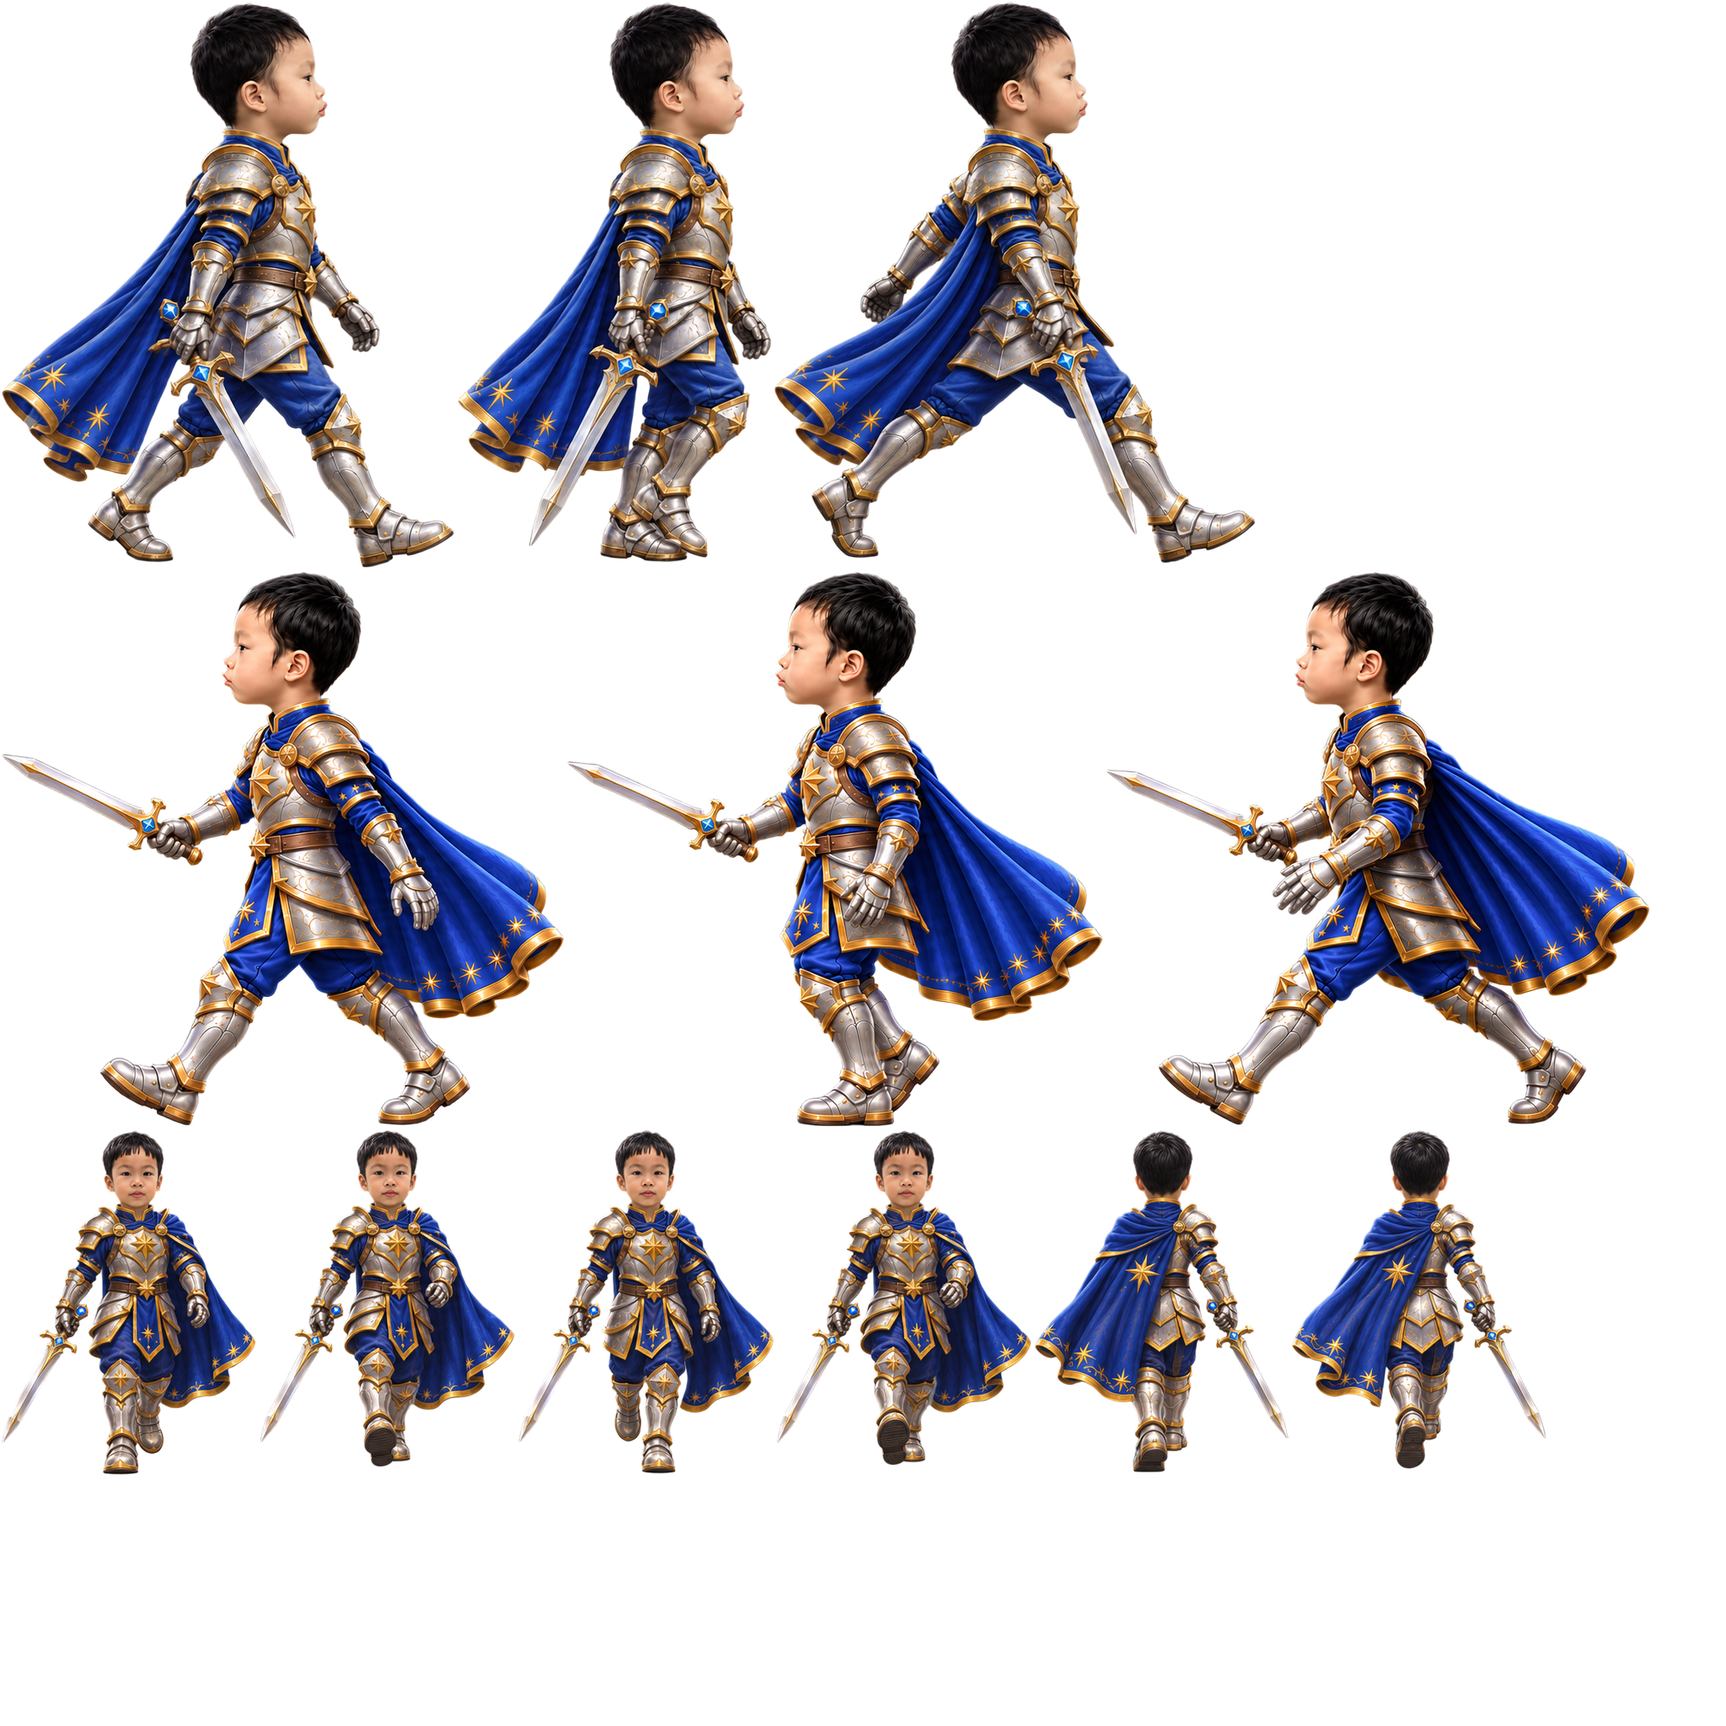
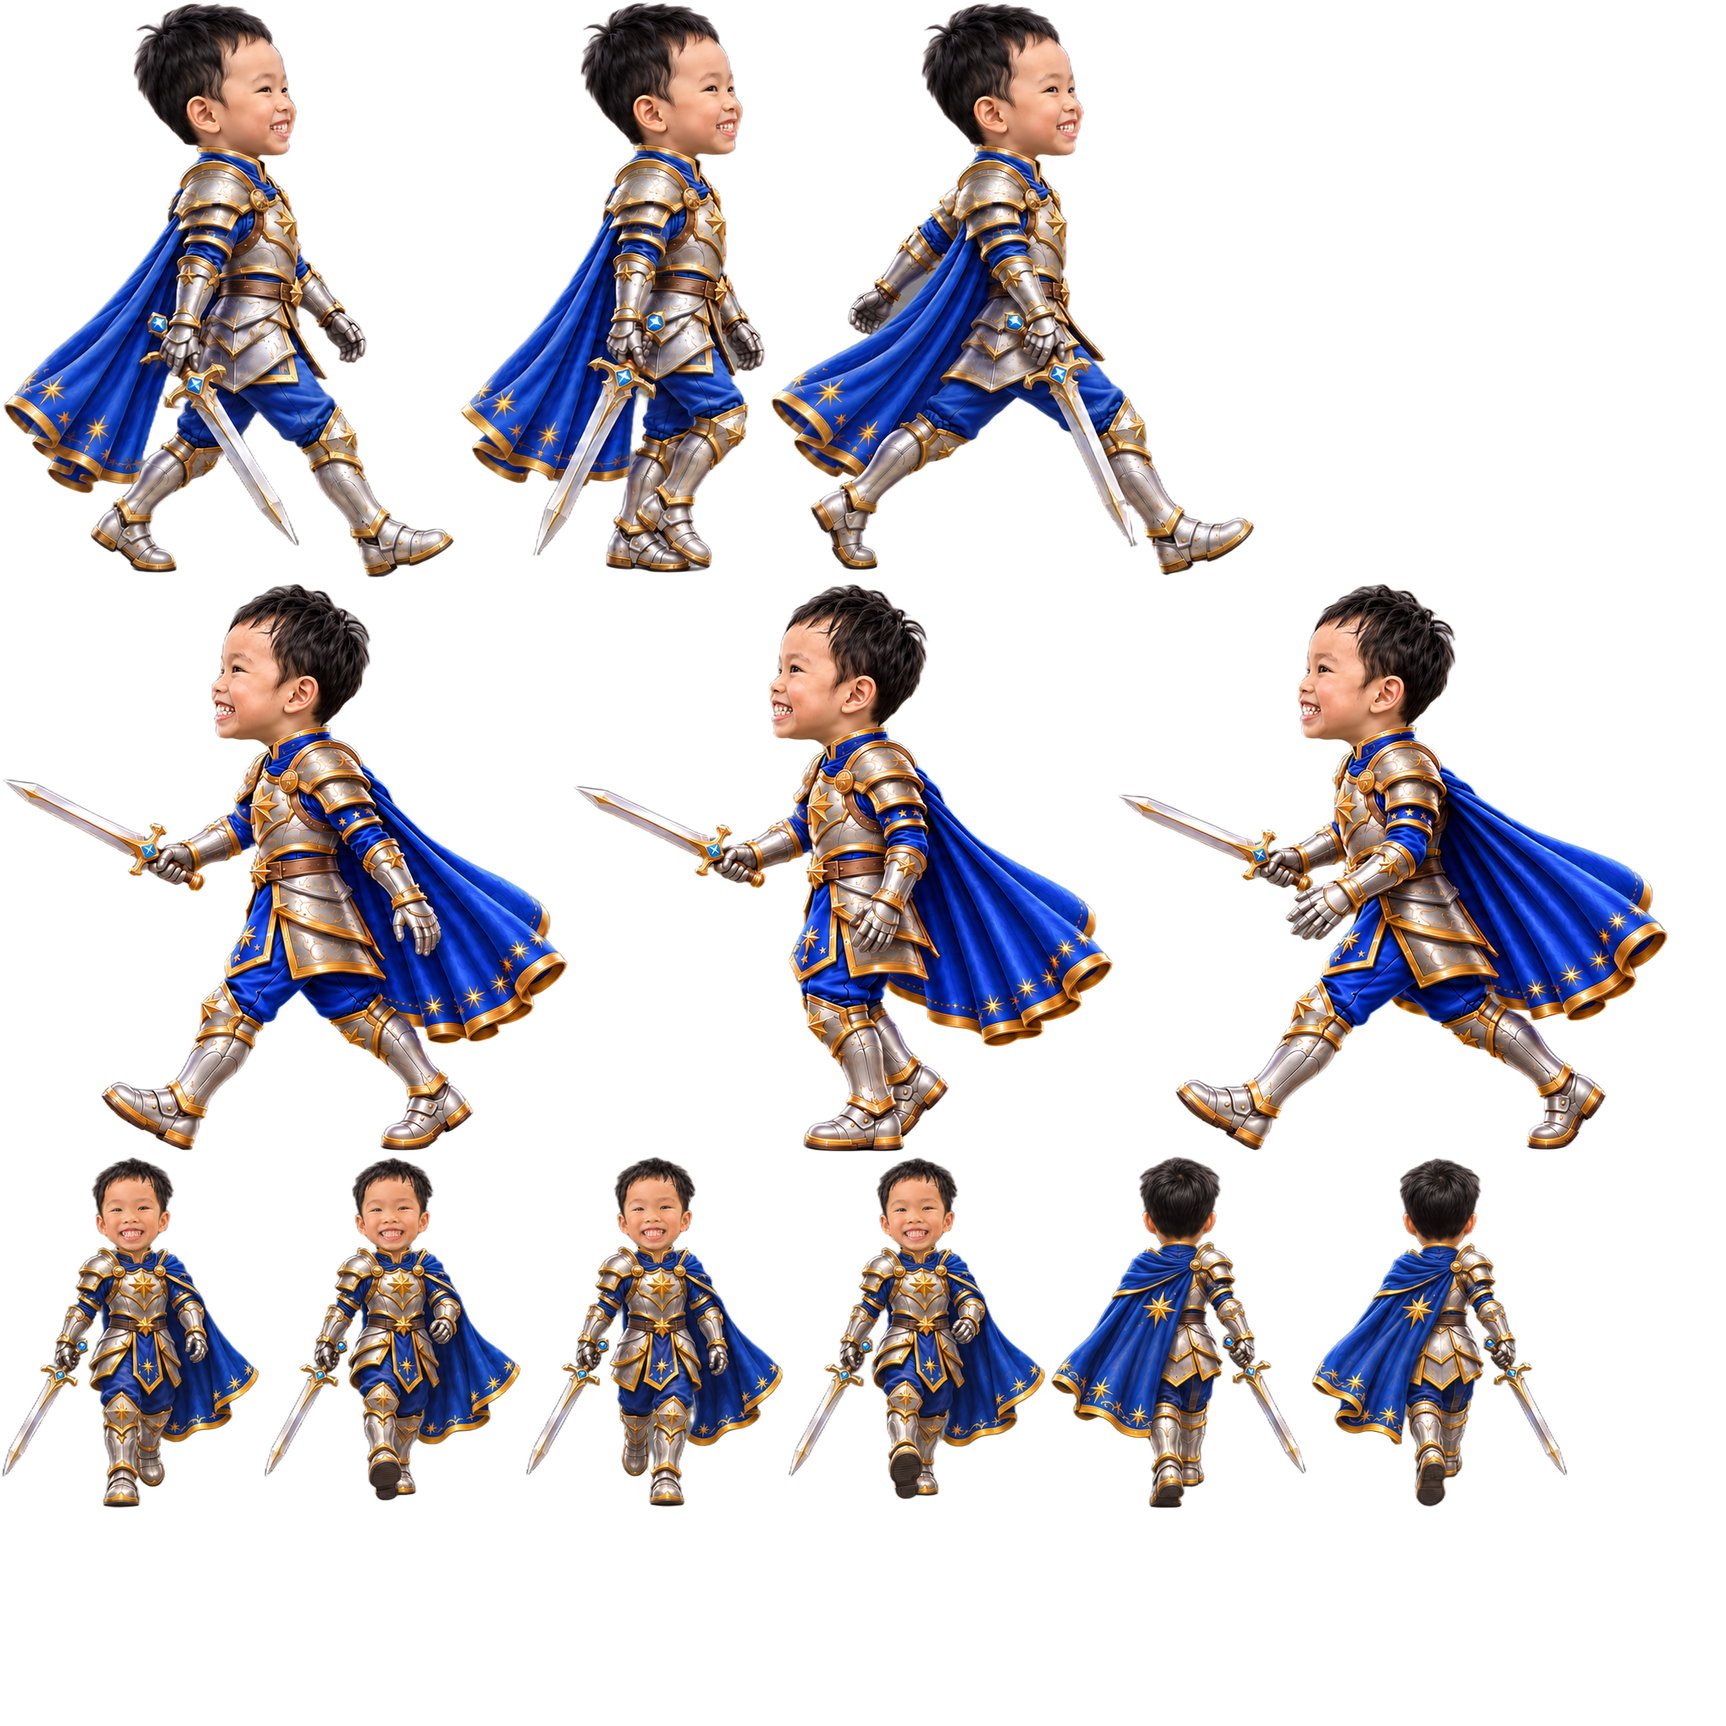
Đồng Cỏ 261103.1534: Gôm cười mở mắt, tám bộ đồ và hút máu cận chiến

Changed region(s): [[0.0, 0.0, 0.9688, 0.875]]

diff --git a/index.html b/index.html
@@ -243,7 +243,7 @@
 
 <div id="rotate">Xoay ngang iPad để chơi nhé</div>
 
-<script src="wardrobe.js?v=261103.1137"></script>
+<script src="wardrobe.js?v=261103.1534"></script>
 <script>
 (() => {
   "use strict";
@@ -277,7 +277,7 @@
   let META = null, ready = false;
   function loadImg(src) { return new Promise((res, rej) => { const i = new Image(); i.onload = () => res(i); i.onerror = rej; i.src = src; }); }
   // ---------------------------------------------------------------- version: the site build stamps BUILD_VER and writes version.json beside the page
-  const BUILD_VER = "261103.1137", isBuilt = !BUILD_VER.startsWith("__");
+  const BUILD_VER = "261103.1534", isBuilt = !BUILD_VER.startsWith("__");
   async function latestVer() {
     try { return (await (await fetch("version.json?x=" + Date.now(), { cache: "no-store" })).json()).v; } catch (e) { return null; }
   }
@@ -349,7 +349,7 @@
   async function gomAtlas(outfit='base') {
     if(!GOM_OUTFITS.includes(outfit))throw Error('Trang phục Gôm không hợp lệ');
     const url='gom-assets/'+outfit+'/',res=await fetch(url+'atlas.json'),meta=await res.json();
-    const required=['stand','faint','cheer','ult',...['wr','wl','cr','cl'].flatMap(p=>[0,1,2].map(i=>p+i)),...['wd','wu','cd','cu'].flatMap(p=>[0,1,2,3].map(i=>p+i))];
+    const required=['stand','faint','cheer','ult',...['wr','wl','cr','cl','wdr','wdl'].flatMap(p=>[0,1,2].map(i=>p+i)),...['wd','wu','cd','cu'].flatMap(p=>[0,1,2,3].map(i=>p+i))];
     required.push(...Array.from({length:9},(_,i)=>['atk'+i+'r','atk'+i+'l']).flat());
     if(outfit==='base')required.push('sword_fly','slash0','slash1','slash2','ult_swords','ult_land');
     if(meta.version!==1||!Array.isArray(meta.sheets)||!meta.sheets.length||!meta.sheets.every(n=>/^[a-zA-Z0-9_-]+\.webp$/.test(n))||!meta.frames||required.some(p=>!meta.frames[p]))throw Error('Gôm chưa đủ hình');
@@ -799,7 +799,11 @@
     })();WARD.loading.set(id,task);try{return await task;}finally{WARD.loading.delete(id);}
   }
   function wardRefresh(){const key=[WARD.epoch,G.stars,outfit[hero],WARD.ready,WARD.partnerReady,NET.role,WARD.pending?.id,[...WARD.owned[hero]].join(',')].join('|');if(key===WARD.uiKey)return;WARD.uiKey=key;WARD.ui?.refresh();WARD.ui?.setReadyState({self:WARD.ready,partner:WARD.partnerReady,coop:!!NET.role});}
-  function wardInitUI(){if(WARD.ui||!window.createMeadowWardrobe)return;WARD.ui=window.createMeadowWardrobe({hero:()=>hero,heroName:()=>HD().name,catalog:()=>WARD.catalog,coins:()=>G.stars,owned:wardOwned,equipped:()=>outfit[hero],load:wardLoad,buy:wardBuy,wear:wardWear,ready:wardReady,back:toTitle,label:()=>LEVELS[G.level].name,background:'wardrobe-assets/background.webp'});}
+  async function wardPreview(id) {
+    const stand = await wardLoad(id);
+    return hero === "b" ? (await gomSelection(id ? id.slice(2) : "base").promise) || stand : stand;
+  }
+  function wardInitUI(){if(WARD.ui||!window.createMeadowWardrobe)return;WARD.ui=window.createMeadowWardrobe({hero:()=>hero,heroName:()=>HD().name,catalog:()=>WARD.catalog,coins:()=>G.stars,owned:wardOwned,equipped:()=>outfit[hero],load:wardPreview,buy:wardBuy,wear:wardWear,ready:wardReady,back:toTitle,label:()=>LEVELS[G.level].name,background:'wardrobe-assets/background.webp'});}
   function wardOpen(fromNet=false,epoch=null){
     if(epoch!==null&&WARD.open&&WARD.epoch===epoch)return;
     WARD.epoch=epoch===null?WARD.epoch+1:epoch;WARD.open=true;WARD.ready=false;WARD.partnerReady=false;G.mode='shop';P.vx=P.vy=0;P.moving=false;
@@ -1128,7 +1132,7 @@
       addDeco(d);
     }
     // reset the play state
-    P.gomAttack=null;P.gomVisual=null;P.gomIndex=0;G.nextId = 1; G.mons = []; G.shots = []; G.pshots = []; G.foes = []; G.parts = []; G.drops = []; G.gems = []; G.rings = []; G.quakes = [];
+    resetGomCombat();gomReceived.clear();P.gomAttack=null;P.gomVisual=null;P.gomIndex=0;G.nextId = 1; G.mons = []; G.shots = []; G.pshots = []; G.foes = []; G.parts = []; G.drops = []; G.gems = []; G.rings = []; G.quakes = [];
     G.boss = null; G.ult = null; G.quiz = null; G.bcut = null; G.bcutSeen = null; $("quiz").hidden = true; G.arenaLock = false; G.lt = 0; G.lvKills = 0; G.spawnAcc = 0; G.surgeT = 35; G.gateMsg = false; G.tierMsg = false; TIER_FR.clear();
     chunkCache.clear(); miniBase = null;
     $("lvlName").textContent = L.name;
@@ -1373,7 +1377,7 @@
   function heroDown(why) {
     // The girls only rest briefly. Fainting and rescue belong to NPCs.
     if (P.tiredT > 0) return;
-    P.gomAttack=null;P.gomVisual=null; P.dead = false; P.tiredT = 1.4; P.inv = Math.max(P.inv, 1.4); P.hurtT = 0;
+    resetGomCombat();P.gomAttack=null;P.gomVisual=null; P.dead = false; P.tiredT = 1.4; P.inv = Math.max(P.inv, 1.4); P.hurtT = 0;
     P.vx = P.vy = 0; P.moving = false; G.hearts = 0; renderHearts();
     showBanner(HD().name + " hơi mệt rồi!", "Nghỉ một chút là khỏe lại nhé");
   }
@@ -1382,6 +1386,7 @@
   const rescuing = () => !!(Q && NET.role && !Q.dead && d2(Q.x, Q.y, P.x, P.y) < RESCUE_R * RESCUE_R);
   // get back up on the spot with full hearts, and shoo the monsters away
   function reviveHero() {
+    resetGomCombat();P.gomAttack=null;P.gomVisual=null;
     for (const e of PETE) e.faintT = 0;
     P.dead = false; P.tiredT = 0; P.hurtT = 0; P.inv = 2.5; G.hearts = maxHearts(); renderHearts(); SFX.heal();
     burst(P.x, P.y - 110, 30, ["#fff4c2", "#ffd34d", ...HD().cols], 380, 0.8);
@@ -1488,25 +1493,56 @@
     }
     play("zap");
   }
+  let gomSequence = 0;
+  const gomWaiting = new Set(), gomReceived = new Map();
+  function resetGomCombat() {
+    P.gomThrowCd=0; P.gomHealTimes=[]; gomWaiting.clear();
+  }
+  function gomHeal() {
+    if(hero!=="b" || P.dead || P.tiredT>0 || G.hearts<=0) return;
+    const now=G.t || 0;
+    P.gomHealTimes=(P.gomHealTimes||[]).filter(t=>now-t<1);
+    if(P.gomHealTimes.length>=5 || G.hearts>=8) return;
+    P.gomHealTimes.push(now); G.hearts=Math.min(8,Math.round((G.hearts+0.1)*1e10)/1e10); renderHearts();
+  }
+  function gomMeleeHit(m, strike, hit) {
+    const hp=m.hp, queued=NET.hq.length; hit();
+    if(NET.role==="guest") {
+      if(NET.hq.length>queued) { NET.hq[NET.hq.length-1][6]=strike.id; gomWaiting.add(strike.id); if(gomWaiting.size>128)gomWaiting.delete(gomWaiting.values().next().value); }
+    } else if(m.hp<hp && !strike.healed) { strike.healed=true; gomHeal(); }
+  }
+  function gomReceiveHit(h, hit) {
+    const token=h[6];
+    if(!Number.isSafeInteger(token) || token<=0 || Q?.hero!=="b") return hit();
+    let record=gomReceived.get(token);
+    if(!record) { record={targets:new Set(),healed:false}; gomReceived.set(token,record); if(gomReceived.size>512)gomReceived.delete(gomReceived.keys().next().value); }
+    const id=Number(h[0]); if(record.targets.has(id))return; record.targets.add(id);
+    const m=id===-1?G.boss:G.mons.find(m=>m.id===id), hp=m?.hp;
+    if(!m?.alive || Q.dead || Q.tiredT>0) return;
+    hit();
+    if(m.hp<hp && !record.healed) { record.healed=true; netEmit("gomheal",{to:NET.partner,id:token}); }
+  }
   const GOM_CHAINS=[[0,1,2],[3,4,5],[6,7,8]];
   function gomSlashFx(pose,x,y,a){G.parts.push({type:'fx',name:'fx_gom_slash'+(pose%3),x:x+Math.cos(a)*95,y:y-75+Math.sin(a)*70,sc:1.25,rot:a,life:.25,max:.25});}
   function gomFire(){
-    if(P.gomAttack)return;
+    if(P.gomAttack || P.dead || P.tiredT>0 || G.ult || P.winT)return;
     const S=heroStats('b',P.lv,P.elem),target=nearestFoes(P.x,P.y,S.range,1)[0];
     if(!target){P.shootCd=.08;return;}
     const a=Math.atan2(target.y-P.y,target.x-P.x);if(!P.moving)setFace(P,Math.cos(a),Math.sin(a));
-    if(d2(P.x,P.y,target.x,target.y)>250*250){fireBolt(a,S);const shot=G.shots[G.shots.length-1];shot.pierce=true;shot.hit=new Set();P.shootCd=S.cd;P.castT=.22;return;}
+    if(d2(P.x,P.y,target.x,target.y)>250*250){if(P.gomThrowCd>0)return;P.gomThrowCd=1;fireBolt(a,S);const shot=G.shots[G.shots.length-1];shot.pierce=true;shot.hit=new Set();P.shootCd=0;P.castT=.22;return;}
     const i=P.gomIndex||0,step=i%3,chain=Math.floor(i/3)%3,pose=GOM_CHAINS[chain][step],weight=step===2?1.3:.85;
-    P.gomIndex=(i+1)%9;P.shootCd=S.cd*weight;P.castT=P.shootCd;P.gomAttack={pose,a,t:0,wind:Math.min(.18,S.cd*.45)*weight,dmg:S.dmg*weight,kb:S.kb,elem:P.elem};play('swoosh');
+    P.gomIndex=(i+1)%9;P.shootCd=S.cd*weight;P.castT=P.shootCd;P.gomAttack={id:++gomSequence,pose,a,t:0,wind:Math.min(.18,S.cd*.45)*weight,dmg:S.dmg*weight,kb:S.kb,elem:P.elem};play('swoosh');
   }
   function updateGom(dt){
+    P.gomThrowCd=Math.max(0,(P.gomThrowCd||0)-dt);
+    if(P.dead || P.tiredT>0 || G.ult || P.winT){P.gomAttack=null;return;}
     if(P.gomVisual&&(P.gomVisual.left-=dt)<=0)P.gomVisual=null;
     const a=P.gomAttack;if(!a)return;a.t+=dt;if(a.t<a.wind)return;P.gomAttack=null;P.gomVisual={pose:a.pose,left:.14};
     gomSlashFx(a.pose,P.x,P.y,a.a);if(NET.role)netEmit('gomslash',{pose:a.pose,x:P.x,y:P.y,a:a.a});
     const half=a.pose===5?Math.PI:a.pose===6?.7:a.pose===8?1.9:1.45;
     for(const m of nearestFoes(P.x,P.y,270,1000)){
       const angle=Math.atan2(m.y-P.y,m.x-P.x)-a.a;if(Math.abs(Math.atan2(Math.sin(angle),Math.cos(angle)))>half)continue;
-      if(m===G.boss)hitBoss(a.elem,P.x,P.y,1.3);else hitMon(m,a.dmg,a.elem,P.x,P.y,a.kb);
+      gomMeleeHit(m,a,()=>{if(m===G.boss)hitBoss(a.elem,P.x,P.y,1.3);else hitMon(m,a.dmg,a.elem,P.x,P.y,a.kb);});
     }
   }
   // where the wand tip is, per facing (0 down .. 4 up, x mirrored when she faces left), relative to her feet;
@@ -1902,7 +1938,7 @@
   }
   function pickDrop(d) {
     if (d.type === "heart") {
-      if (G.hearts < maxHearts()) { G.hearts++; renderHearts(); floatText(d.x, d.y - 60, "+1 tim"); }
+      if (G.hearts < maxHearts()) { G.hearts = Math.min(maxHearts(), G.hearts + 1); renderHearts(); floatText(d.x, d.y - 60, "+1 tim"); }
       else addEnergy(10, d.x, d.y - 60);
       SFX.heal(); burst(d.x, d.y - 40, 14, ["#ff6f8f", "#fff"], 260, 0.5);
     } else if (d.type === "energy") {
@@ -4528,6 +4564,10 @@
     if (o.moving && !o.aim) o = { ...o, castT: 0 };
     const sk = o.skin, base = o.hk;
     if(base==='b'&&o.tiredT>0)return [(WARD.loaded.has(sk)?sk:'b_new')+'_faint',false];
+    if(base==='b'&&o.face===1&&!o.dead&&!o.winT&&!o.gomAttack&&!(o.castT>0)){
+      const pre=WARD.loaded.has(sk)?sk:'b_new',step=o.moving?[0,1,2,1][Math.floor((o.dist||0)/SIDE_CYCLE*4)%4]:1;
+      const name=pre+'_wd'+(o.flip?'l':'r')+step;if(FR[name])return [name,false];
+    }
     if(base==='b'&&o.face>=1&&o.face<=3&&o.gomAttack&&(!o.moving||Math.floor((o.dist||0)/45)%2===0)){
       const pre=WARD.loaded.has(sk)?sk:'b_new',name=pre+'_atk'+o.gomAttack.pose+(o.flip?'l':'r');if(FR[name])return [name,false];
     }
@@ -5397,7 +5437,14 @@
 
 
   // ---------------------------------------------------------------- HUD
-  function renderHearts() { $("hearts").innerHTML = Array.from({ length: maxHearts() }, (_, i) => (i < G.hearts ? '<img src="assets/ui_heart.webp" alt="">' : '<img class="lost" src="assets/ui_heart_empty.webp" alt="">')).join(""); }
+  function renderHearts() {
+    $("hearts").innerHTML=Array.from({length:maxHearts()},(_,i)=>{
+      const fill=clamp(G.hearts-i,0,1);
+      if(fill===1)return '<img src="assets/ui_heart.webp" alt="">';
+      if(fill===0)return '<img class="lost" src="assets/ui_heart_empty.webp" alt="">';
+      return '<span style="position:relative;display:inline-block;width:1.35em;height:1.35em"><img class="lost" src="assets/ui_heart_empty.webp" alt=""><img src="assets/ui_heart.webp" alt="" style="position:absolute;inset:0;clip-path:inset('+Math.round((1-fill)*100)+'% 0 0 0)"></span>';
+    }).join("");
+  }
   function updateHud() {
     $("efill").style.width = G.energy + "%"; $("ebar").classList.toggle("full", G.energy >= 100);
     $("stars").textContent = G.stars;
@@ -5460,13 +5507,30 @@
       box.append(b);
     });
   }
+  // UI portraits are separate from neutral gameplay frames.
+  const GOM_SELECTION = new Map();
+  function gomSelection(outfit = 'base', ready) {
+    let entry = GOM_SELECTION.get(outfit);
+    if (!entry) {
+      entry = { frame: null, promise: null }; GOM_SELECTION.set(outfit, entry);
+      entry.promise = loadImg('gom-assets/' + outfit + '/selection.webp').then(img => {
+        const stand = FR.b_stand;
+        entry.frame = { img, sx: 0, sy: 0, w: img.width, h: img.height,
+          s: stand ? stand.h * stand.s / img.height : 247.5 / img.height,
+          ax: img.width / 2, ay: img.height };
+        if (ready) ready();
+        return entry.frame;
+      }).catch(() => null);
+    }
+    return entry;
+  }
   function renderHeroes() {
     const box = $("heroes"); box.innerHTML = "";
     for (const [k, h] of Object.entries(HEROES)) {
       if(!FR[k+"_stand"])continue;
       const b = document.createElement("button"); b.className = "hero"; b.setAttribute("aria-pressed", k === hero);
-      const f = FR[k + "_stand"], c = document.createElement("canvas"), sc = 1.2; c.width = 130 * sc; c.height = 262 * sc;
-      const k2 = f.s * sc, g = c.getContext("2d");
+      const f = (k === "b" ? gomSelection("base", renderHeroes).frame : null) || FR[k + "_stand"], c = document.createElement("canvas"), sc = 1.2; c.width = 130 * sc; c.height = 262 * sc;
+      const k2 = k === "b" ? Math.min(f.s * sc, (c.width - 4) / f.w) : f.s * sc, g = c.getContext("2d");
       g.drawImage(f.img, f.sx, f.sy, f.w, f.h, c.width / 2 - f.ax * k2, c.height - f.ay * k2, f.w * k2, f.h * k2);
       b.append(c, h.name);
       b.addEventListener("click", () => { hero = k; try { localStorage.setItem("dcpt3-hero", k); } catch (e) {} loadPets(); renderHeroes(); });
@@ -5611,7 +5675,7 @@
       }
       renderCoop();
     }, () => { if (NET.state === "ok") { NET.state = "none"; NET.room = null; renderCoop(); } });
-    for (const t of ["start", "hits", "ult", "shoo", "portal", "hurt", "pick", "gain", "shots", "xp", "pet", "combo", "shout", "say", "wardrobe", "gomslash"]) room.on(t, onNet, () => {});
+    for (const t of ["start", "hits", "ult", "shoo", "portal", "hurt", "pick", "gain", "shots", "xp", "pet", "combo", "shout", "say", "wardrobe", "gomslash", "gomheal"]) room.on(t, onNet, () => {});
     renderCoop();
   }
 
@@ -5779,14 +5843,17 @@
       }
       return;
     }
+    if(msg.topic==="gomheal") { if(NET.role==="guest" && d.to===NET.me && G.mode==="play" && gomWaiting.delete(d.id))gomHeal(); return; }
     if (NET.role === "host") {
       if (msg.topic === "hits") {
         for (const h of Array.isArray(d.h) ? d.h.slice(0, 120) : []) {
           if (!Array.isArray(h)) continue;
+          gomReceiveHit(h,()=>{
           const el = ELS[num(h[1])] || null, id = num(h[0]);
-          if (id === -1) { if (G.boss && G.boss.alive) { damageBoss(Q?.hero==='b'?clamp(num(h[2]),0,30):1, G.boss.x, G.boss.y - 220); applyElem(G.boss, el, "q"); } continue; }
+          if (id === -1) { if (G.boss && G.boss.alive) { damageBoss(Q?.hero==='b'?clamp(num(h[2]),0,30):1, G.boss.x, G.boss.y - 220); applyElem(G.boss, el, "q"); } return; }
           const m = G.mons.find((m) => m.id === id && m.alive);
           if (m) { damageMon(m, clamp((Q?.hero==='b'?num(h[2]):Math.floor(num(h[2]))) || 1, 1, 400), Q ? Q.x : m.x, Q ? Q.y : m.y, false, "q", clamp(num(h[3]) || 60, 0, 250)); applyElem(m, el, "q"); }
+          });
         }
       } else if (msg.topic === "ult") {
         ultBlast(num(d.cx), num(d.cy), clamp(num(d.hw), 0, 2200), clamp(num(d.hh), 0, 1400), "q"); SFX.boom(); G.shake = 20;

diff --git a/wardrobe.js b/wardrobe.js
@@ -26,7 +26,8 @@
       visible.forEach((x,i)=>{
         const b=el('button','mw-card'),thumb=el('img','mw-thumb'),label=el('span','',x.name),detail=el('small');
         b.dataset.action='select:'+x.id;thumb.alt=x.name;thumb.loading=i<6?'eager':'lazy';thumb.decoding='async';thumb.width=240;thumb.height=280;
-        thumb.src=hero==='b'?'gom-assets/'+(x.id?x.id.slice(2):'base')+'/thumb.webp':hero==='n'?'nam-assets/'+(x.id?x.id.slice(2):'base')+'/thumb.webp':'wardrobe-assets/thumbnails/'+(x.id||hero+'.base')+'.webp';
+        thumb.src=hero==='b'?'gom-assets/'+(x.id?x.id.slice(2):'base')+'/selection.webp':hero==='n'?'nam-assets/'+(x.id?x.id.slice(2):'base')+'/thumb.webp':'wardrobe-assets/thumbnails/'+(x.id||hero+'.base')+'.webp';
+        if(hero==='b')thumb.onerror=()=>{thumb.onerror=null;thumb.src='gom-assets/'+(x.id?x.id.slice(2):'base')+'/thumb.webp';};
         b.append(thumb,label,detail);b.onclick=()=>{if(pending||entering)return;selected=x.id;load();};list.appendChild(b);cardNodes.push({b,detail,x});
       });
     }
